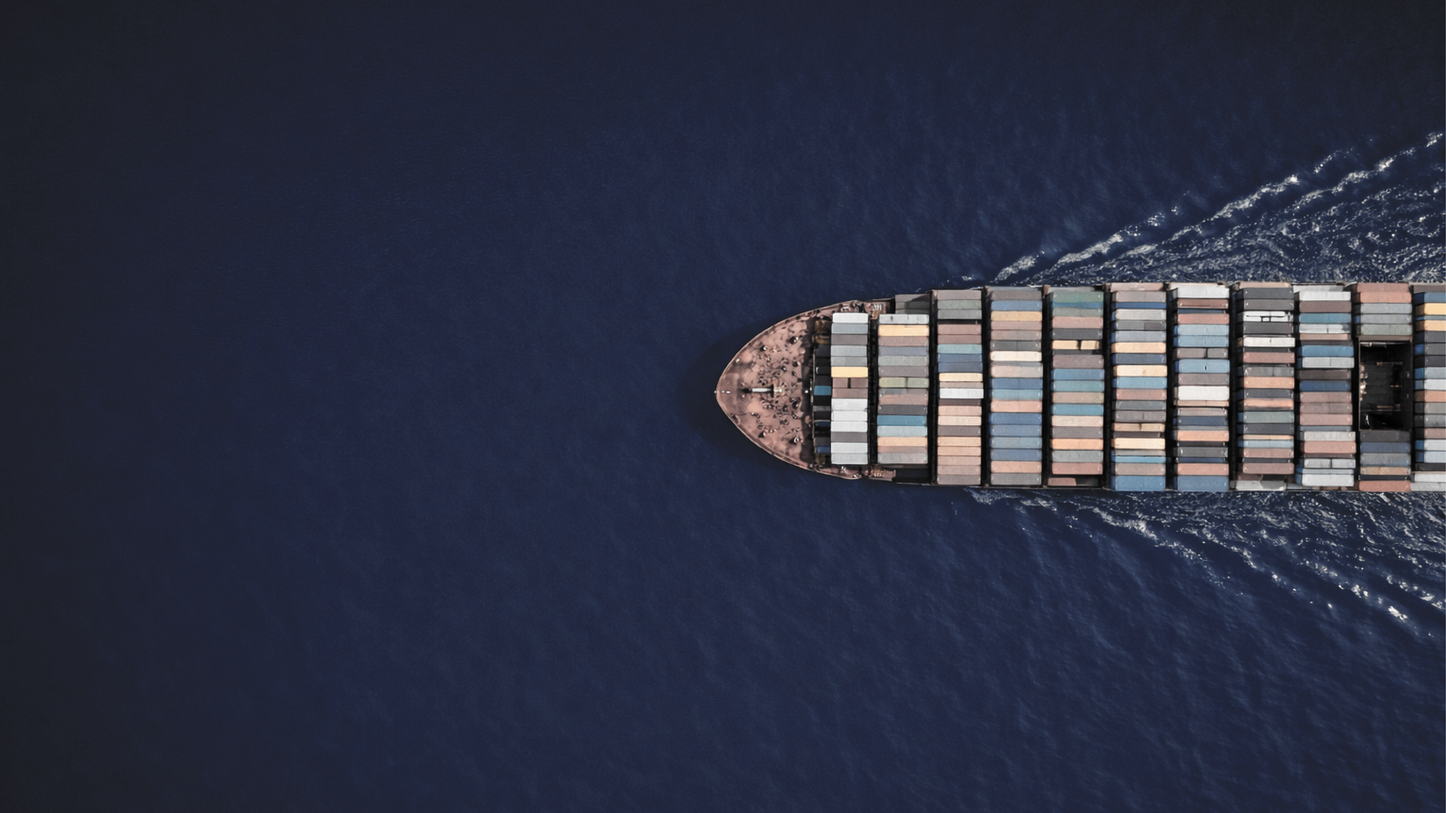
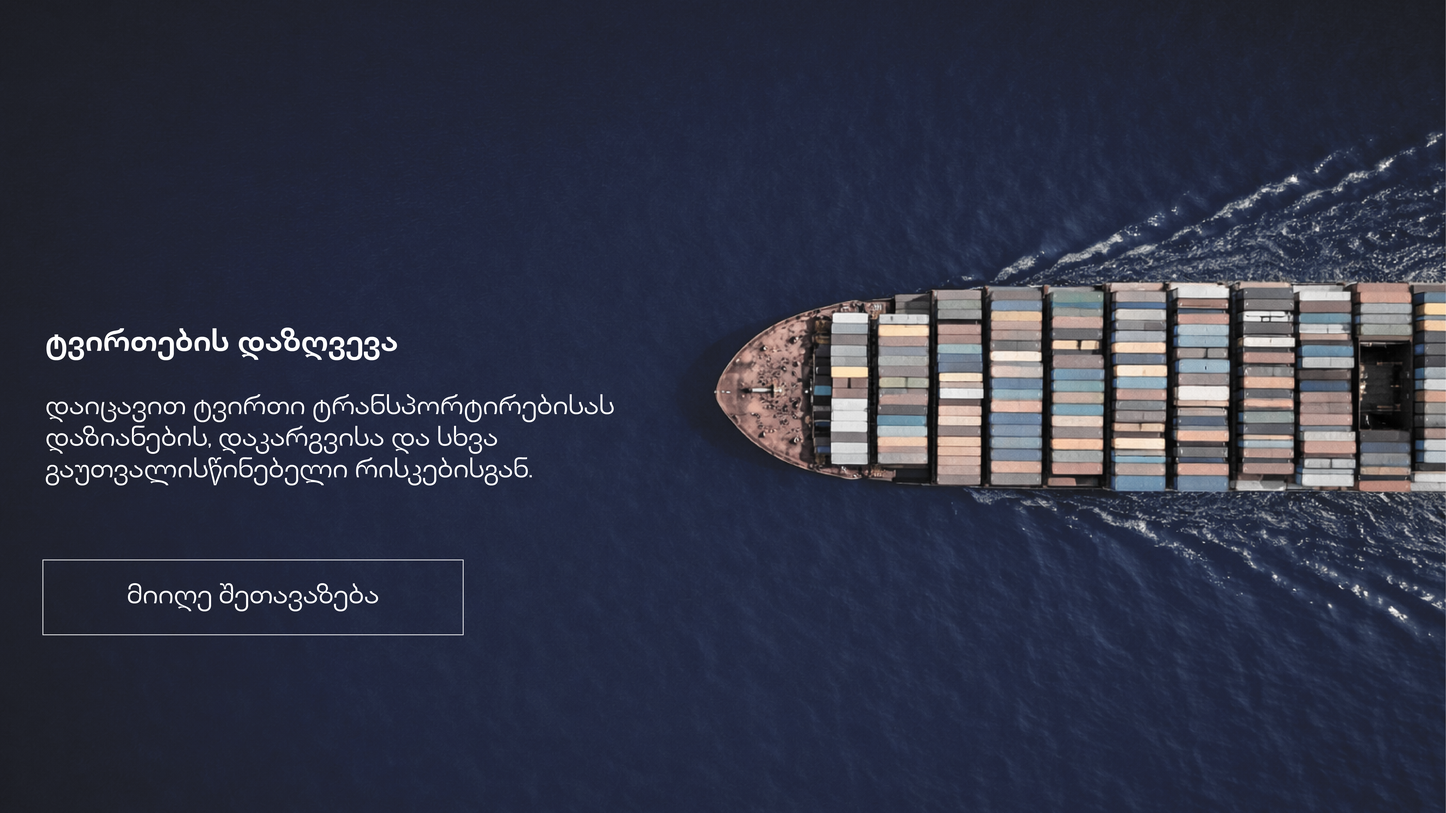
ბრენდ-ბუქი: ფერები, Playfair Display ფონტი, GEO Visuals ფოტოები, CTA ბექრაუნდი

Changed region(s): [[0.0312, 0.4978, 0.4062, 0.5911], [0.0312, 0.4044, 0.2812, 0.4667], [0.0938, 0.7156, 0.25, 0.7467]]

diff --git a/src/pages/DetailPage.tsx b/src/pages/DetailPage.tsx
@@ -3,7 +3,6 @@ import BIB_DATA from "@/data/bibData";
 import { useLang } from "@/contexts/LangContext";
 import Header from "@/components/bib/Header";
 import Footer from "@/components/bib/Footer";
-import ContactForm from "@/components/bib/ContactForm";
 import { useEffect } from "react";
 
 export default function DetailPage() {
@@ -26,7 +25,7 @@ export default function DetailPage() {
   const isBlog = slug.startsWith("blog-");
 
   return (
-    <div className="animate-fade-in">
+    <div className="animate-fade-in flex flex-col min-h-screen">
       <Header />
 
       {/* Split layout for products */}
@@ -36,14 +35,22 @@ export default function DetailPage() {
             {/* Left: Sticky visual */}
             <aside className="lg:flex-1 lg:sticky lg:top-24 lg:self-start pt-8 lg:pt-12">
               <div className="w-full aspect-[4/3] bg-muted rounded-lg overflow-hidden shadow-bib-md flex items-center justify-center">
-                <div className="text-center p-8">
-                  <div className="w-20 h-20 mx-auto mb-4 rounded-full bg-primary/10 flex items-center justify-center">
-                    <span className="text-3xl font-bold text-primary">
-                      {page.title.charAt(0)}
-                    </span>
+                {["auto-insurance","property-insurance","travel-insurance","health-insurance","cargo-insurance"].includes(slug) ? (
+                  <img
+                    src={`/product-${slug.replace("-insurance","")}.png`}
+                    alt={page.title}
+                    className="w-full h-full object-contain p-4"
+                  />
+                ) : (
+                  <div className="text-center p-8">
+                    <div className="w-20 h-20 mx-auto mb-4 rounded-full bg-primary/10 flex items-center justify-center">
+                      <span className="text-3xl font-bold text-primary">
+                        {page.title.charAt(0)}
+                      </span>
+                    </div>
+                    <p className="text-sm text-muted-foreground">{page.title}</p>
                   </div>
-                  <p className="text-sm text-muted-foreground">{page.title}</p>
-                </div>
+                )}
               </div>
             </aside>
 
@@ -110,7 +117,7 @@ export default function DetailPage() {
         </section>
       ) : (
         /* Non-product pages */
-        <section className="section-padding">
+        <section className="section-padding flex-1 min-h-[calc(100vh-var(--header-h,80px)-var(--footer-h,200px))]">
           <div className="container-bib">
             <div className="mb-8">
               <h1 className="text-2xl md:text-4xl font-bold text-foreground">{page.title}</h1>
@@ -119,46 +126,24 @@ export default function DetailPage() {
               )}
             </div>
 
-            <div className="grid grid-cols-1 lg:grid-cols-3 gap-8 lg:gap-12">
-              <div className="lg:col-span-2">
-                {page.body && (
-                  <div className="text-muted-foreground leading-relaxed whitespace-pre-line">{page.body}</div>
-                )}
-                {page.subcategories && (
-                  <ul className="space-y-3 mt-6">
-                    {page.subcategories.map((sc, i) => (
-                      <li key={i} className="flex items-start gap-2 text-muted-foreground">
-                        <span className="mt-1.5 h-2 w-2 rounded-full bg-primary shrink-0" />
-                        {sc}
-                      </li>
-                    ))}
-                  </ul>
-                )}
-              </div>
-              <div className="lg:col-span-1">
-                <div className="sticky top-20">
-                  <div className="rounded-lg border border-border bg-background p-6 shadow-bib">
-                    <h3 className="font-semibold text-foreground mb-4">{d.formLabels.requestConsultation}</h3>
-                    <ContactForm compact />
-                  </div>
-                </div>
-              </div>
+            <div className="max-w-2xl">
+              {page.body && (
+                <div className="text-muted-foreground leading-relaxed whitespace-pre-line">{page.body}</div>
+              )}
+              {page.subcategories && (
+                <ul className="space-y-3 mt-6">
+                  {page.subcategories.map((sc, i) => (
+                    <li key={i} className="flex items-start gap-2 text-muted-foreground">
+                      <span className="mt-1.5 h-2 w-2 rounded-full bg-primary shrink-0" />
+                      {sc}
+                    </li>
+                  ))}
+                </ul>
+              )}
             </div>
           </div>
         </section>
       )}
-
-      {/* Bottom CTA */}
-      <section className="bg-primary-light">
-        <div className="container-bib py-10 text-center">
-          <Link
-            to={`/contact?lang=${lang}`}
-            className="inline-block rounded-md bg-primary px-6 py-3 font-medium text-primary-foreground hover:bg-primary-dark transition-colors"
-          >
-            {page.cta || d.formLabels.requestConsultation}
-          </Link>
-        </div>
-      </section>
 
       <Footer />
     </div>

diff --git a/src/index.css b/src/index.css
@@ -1,4 +1,4 @@
-@import url('https://fonts.googleapis.com/css2?family=Inter:wght@300;400;500;600;700&display=swap');
+@import url('https://fonts.googleapis.com/css2?family=Inter:wght@300;400;500;600;700&family=Playfair+Display:wght@400;600;700&display=swap');
 
 @tailwind base;
 @tailwind components;
@@ -7,35 +7,37 @@
 @layer base {
   :root {
     --background: 0 0% 100%;
-    --foreground: 233 43% 14%;
+    --foreground: 225 21% 26%;
     --card: 0 0% 100%;
-    --card-foreground: 233 43% 14%;
+    --card-foreground: 225 21% 26%;
     --popover: 0 0% 100%;
-    --popover-foreground: 233 43% 14%;
-    --primary: 212 70% 33%;
+    --popover-foreground: 225 21% 26%;
+    --primary: 225 21% 26%;
     --primary-foreground: 0 0% 100%;
-    --primary-dark: 212 70% 25%;
-    --secondary: 214 60% 95%;
-    --secondary-foreground: 212 70% 33%;
-    --muted: 220 27% 98%;
-    --muted-foreground: 210 15% 53%;
-    --accent: 214 60% 95%;
-    --accent-foreground: 212 70% 33%;
+    --primary-dark: 225 21% 18%;
+    --secondary: 31 45% 92%;
+    --secondary-foreground: 225 21% 26%;
+    --muted: 40 33% 96%;
+    --muted-foreground: 0 0% 38%;
+    --accent: 49 54% 65%;
+    --accent-foreground: 225 21% 26%;
     --destructive: 0 84% 60%;
     --destructive-foreground: 0 0% 100%;
-    --border: 214 32% 91%;
-    --input: 214 32% 91%;
-    --ring: 212 70% 33%;
+    --border: 31 30% 88%;
+    --input: 31 30% 88%;
+    --ring: 225 21% 26%;
     --radius: 0.75rem;
 
-    --brand-blue: 212 70% 33%;
-    --brand-blue-dark: 212 70% 25%;
-    --brand-blue-light: 214 60% 95%;
-    --text-secondary: 210 15% 53%;
-    --bg-light: 220 27% 98%;
-    --shadow-sm: 0 2px 8px hsla(212, 70%, 33%, 0.08);
-    --shadow-md: 0 8px 32px hsla(212, 70%, 33%, 0.12);
-    --shadow-lg: 0 16px 48px hsla(212, 70%, 33%, 0.16);
+    --brand-dark: 225 21% 26%;
+    --brand-gold: 49 54% 65%;
+    --brand-cream: 31 45% 84%;
+    --brand-gray: 0 0% 38%;
+    --brand-blue-light: 31 45% 92%;
+    --text-secondary: 0 0% 38%;
+    --bg-light: 40 33% 96%;
+    --shadow-sm: 0 2px 8px hsla(225, 21%, 26%, 0.08);
+    --shadow-md: 0 8px 32px hsla(225, 21%, 26%, 0.12);
+    --shadow-lg: 0 16px 48px hsla(225, 21%, 26%, 0.16);
 
     --sidebar-background: 0 0% 98%;
     --sidebar-foreground: 240 5.3% 26.1%;
@@ -58,6 +60,7 @@
   }
   h1, h2, h3, h4, h5, h6 {
     @apply font-semibold text-foreground;
+    font-family: 'Playfair Display', serif;
   }
 }
 

diff --git a/src/pages/Index.tsx b/src/pages/Index.tsx
@@ -106,7 +106,7 @@ export default function Index() {
         const productImages: Record<string, string> = {
           "auto-insurance": "/product-auto.png",
           "property-insurance": "/product-property.png",
-          "travel-insurance": "/product-auto.png",
+          "travel-insurance": "/product-travel.png",
           "health-insurance": "/product-health.png",
           "cargo-insurance": "/product-cargo.png",
         };
@@ -184,8 +184,17 @@ export default function Index() {
       </div>
 
       {/* ===== CONTACT FORM SECTION ===== */}
-      <section id="contact" className="section-padding bg-primary">
-        <div className="container-bib max-w-md">
+      <section
+        id="contact"
+        className="section-padding relative overflow-hidden"
+        style={{
+          backgroundImage: "url('/cta-bg.png')",
+          backgroundSize: "cover",
+          backgroundPosition: "center",
+        }}
+      >
+        <div className="absolute inset-0 bg-primary/80" />
+        <div className="container-bib max-w-md relative z-10">
           <h2 className="text-xl md:text-2xl font-semibold text-center text-primary-foreground mb-2">{d.ctaSectionTitle}</h2>
           <p className="text-sm text-primary-foreground/70 text-center mb-8">{d.ctaSectionSubtitle}</p>
           <div className="rounded-lg bg-background p-6 md:p-8 shadow-bib-md">
